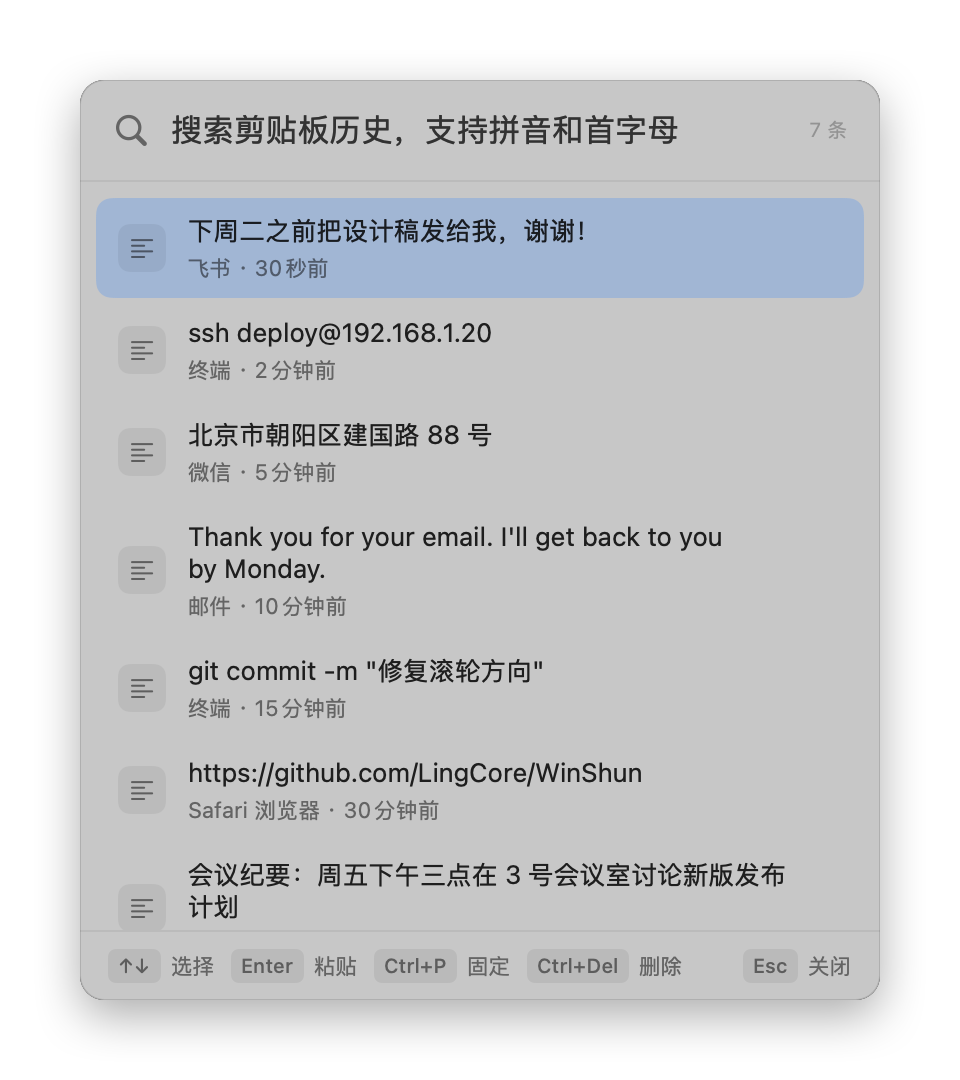
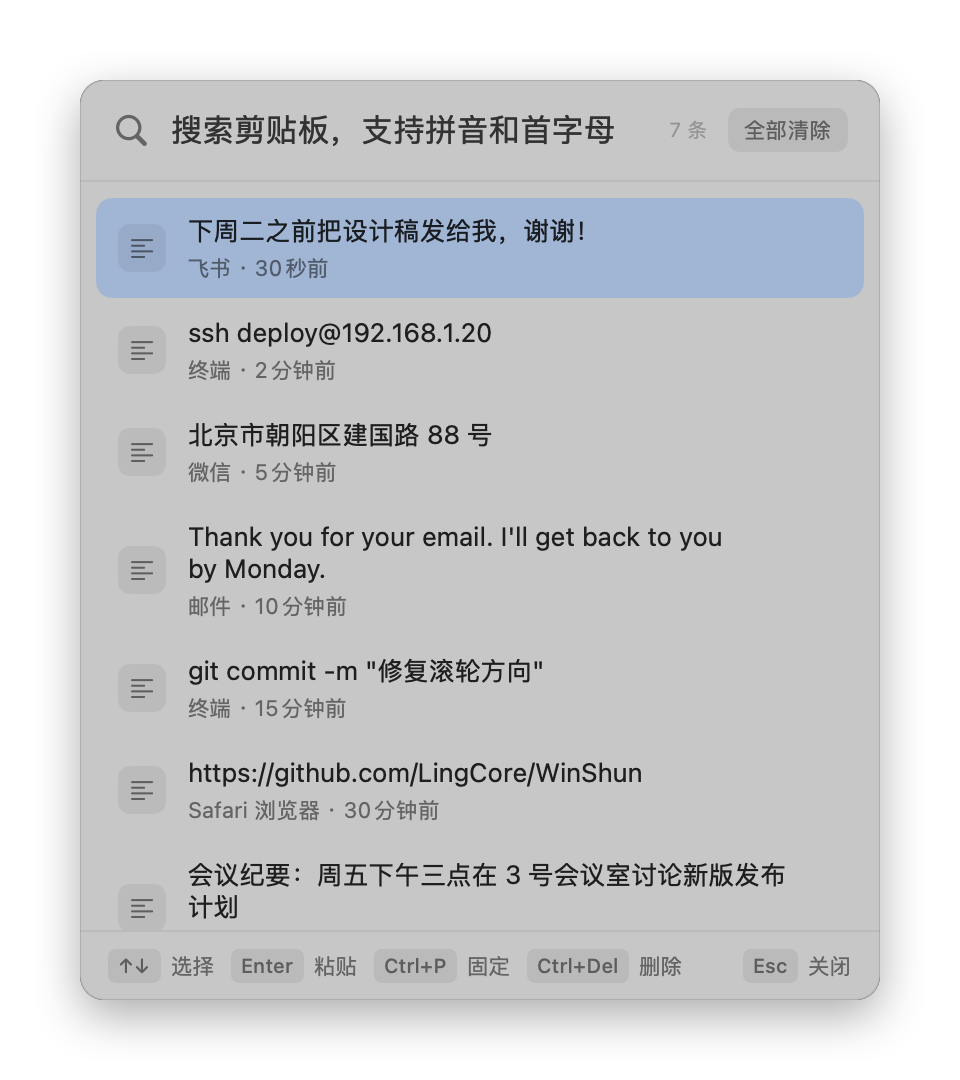
剪贴板面板：右上角加“全部清除”
和 Windows 的 Win+V 一样放在右上角，固定的条目保留。点一下变红（“再点一次清除”），再点一下才清；3 秒内没点、或者中间打了字就取消。面板里弹确认框会让面板失去焦点关掉，所以用点两下防误点。搜索时、没有可清的记录时不显示。

为了放下按钮，搜索框提示缩成“搜索剪贴板，支持拼音和首字母”，按钮变红时先不显示条数。README 加了一句介绍，重新生成了剪贴板面板的截图。

单元测试：点两下才清、固定的保留、打字取消。自测：只点一下（不清掉自己的历史），搜索框照样能打字，Esc 照样关面板。

Changed region(s): [[0.3438, 0.0917, 0.7188, 0.1528], [0.7812, 0.0917, 0.875, 0.1528]]

diff --git a/Sources/WinShun/Clipboard/ClipboardPanel.swift b/Sources/WinShun/Clipboard/ClipboardPanel.swift
@@ -43,9 +43,14 @@ final class ClipboardPanel: NSPanel {
 /// 面板的数据和操作。
 final class ClipboardPanelModel: ObservableObject {
     @Published var query = "" {
-        didSet { refresh() }
+        didSet {
+            cancelClear()
+            refresh()
+        }
     }
     @Published private(set) var results: [ClipboardItem] = []
+    /// 点了一次“全部清除”，等着再点一次确认（过几秒自动取消）
+    @Published private(set) var confirmingClear = false
     @Published var selection = 0
     /// 鼠标停在哪一条上
     @Published var hoveredID: UUID?
@@ -58,6 +63,7 @@ final class ClipboardPanelModel: ObservableObject {
 
     private var thumbnails: [UUID: NSImage] = [:]
     private var subscription: AnyCancellable?
+    private var clearTimeout: DispatchWorkItem?
 
     init(store: ClipboardStore) {
         self.store = store
@@ -69,8 +75,32 @@ final class ClipboardPanelModel: ObservableObject {
     func prepareForShow() {
         query = ""
         selection = 0
+        cancelClear()
         refresh()
         focusToken += 1
+    }
+
+    /// 有没固定的记录可以清。搜索时不显示“全部清除”，免得以为只清搜到的那些
+    var canClear: Bool { query.isEmpty && store.items.contains { !$0.pinned } }
+
+    /// 全部清除：点两下才清，免得误点。固定的条目保留（和 Windows 一样）
+    func clearTapped() {
+        guard confirmingClear else {
+            confirmingClear = true
+            let timeout = DispatchWorkItem { [weak self] in self?.confirmingClear = false }
+            clearTimeout = timeout
+            DispatchQueue.main.asyncAfter(deadline: .now() + 3, execute: timeout)
+            return
+        }
+        cancelClear()
+        store.clearUnpinned()
+        selection = 0
+    }
+
+    private func cancelClear() {
+        clearTimeout?.cancel()
+        clearTimeout = nil
+        if confirmingClear { confirmingClear = false }
     }
 
     func refresh() {
@@ -147,21 +177,46 @@ struct ClipboardPanelView: View {
                 .foregroundStyle(.secondary)
             SearchField(
                 text: $model.query,
-                placeholder: L("搜索剪贴板历史，支持拼音和首字母"),
+                placeholder: L("搜索剪贴板，支持拼音和首字母"),
                 focusToken: model.focusToken,
                 onMove: { model.move($0) },
                 onSubmit: { model.pasteSelected() },
                 onCancel: { model.onClose() }
             )
-            if !model.results.isEmpty {
+            // 等着确认清除时，按钮变宽，条数先不显示
+            if !model.results.isEmpty && !model.confirmingClear {
                 Text(L("%ld 条", model.results.count))
                     .font(.caption)
                     .monospacedDigit()
                     .foregroundStyle(.tertiary)
+                    .fixedSize()
+            }
+            if model.canClear {
+                clearButton
             }
         }
         .padding(.horizontal, 16)
         .frame(height: 50)
+    }
+
+    /// 右上角的“全部清除”，和 Windows 的剪贴板历史一样的位置。点一下变红，再点一下才清
+    private var clearButton: some View {
+        let confirming = model.confirmingClear
+        return Button { model.clearTapped() } label: {
+            Text(confirming ? L("再点一次清除") : L("全部清除"))
+                .font(.system(size: 11, weight: confirming ? .semibold : .regular))
+                .foregroundStyle(confirming ? AnyShapeStyle(Color.white) : AnyShapeStyle(.secondary))
+                .padding(.horizontal, 8)
+                .frame(height: 22)
+                .background(
+                    RoundedRectangle(cornerRadius: 6, style: .continuous)
+                        .fill(confirming ? Color.red.opacity(0.85) : Color.primary.opacity(0.08))
+                )
+                .contentShape(Rectangle())
+                .fixedSize()
+        }
+        .buttonStyle(.plain)
+        .help(L("清除没固定的记录，固定的保留"))
     }
 
     private var list: some View {

diff --git a/Sources/WinShun/App/SelfTest.swift b/Sources/WinShun/App/SelfTest.swift
@@ -209,7 +209,18 @@ final class SelfTest {
         let option: Mod = mapper.altFlag == .maskAlternate ? .alt : .win
         await press(KeyCode.v, [option], settle: 600)
         check("⌥V 也能打开剪贴板历史", clipboard.isVisible)
+
+        // “全部清除”只点一下（不真的清，免得清掉自己的历史）：等着确认；搜索框还在接收按键，一打字就取消
+        let count = store.items.count
+        postClick(at: clipboard.clearButtonPoint)
+        let confirming = await waitUntil(timeout: 1) { self.clipboard.confirmingClear }
+        await press(KeyCode.y, settle: 300)
+        check("点一下“全部清除”等着确认，搜索框照样能打字，一打字就取消", confirming && clipboard.query == "y"
+                && !clipboard.confirmingClear && store.items.count == count && clipboard.isVisible,
+              "等确认：\(confirming)，搜索框里：\(clipboard.query.debugDescription)，还在等确认：\(clipboard.confirmingClear)，"
+                + "条数 \(count) → \(store.items.count)，面板开着：\(clipboard.isVisible)")
         await press(KeyCode.escape, settle: 300)
+        check("然后 Esc 照样关掉面板", !clipboard.isVisible)
         clipboard.hide()
     }
 

diff --git a/Tests/WinShunTests/StorageTests.swift b/Tests/WinShunTests/StorageTests.swift
@@ -113,6 +113,32 @@ extension ClipboardStoreTests {
         let names = try FileManager.default.contentsOfDirectory(atPath: dir.path)
         #expect(names.contains { $0.hasPrefix("history-unreadable-") })
     }
+
+    /// 面板上的“全部清除”：点两下才清，固定的保留；中间打了字就不算
+    @Test func clearAllNeedsTwoClicks() {
+        let dir = tempDirectory()
+        defer { try? FileManager.default.removeItem(at: dir) }
+        let store = ClipboardStore(directory: dir)
+        store.add(text("固定"), maxItems: 10)
+        store.togglePin(store.items[0].id)
+        store.add(text("一"), maxItems: 10)
+        store.add(text("二"), maxItems: 10)
+        let model = ClipboardPanelModel(store: store)
+        #expect(model.canClear)
+
+        model.clearTapped()
+        #expect(model.confirmingClear && store.items.count == 3)
+        model.query = "y"
+        #expect(!model.confirmingClear && !model.canClear)
+        model.query = ""
+        model.clearTapped()
+        #expect(store.items.count == 3)
+
+        model.clearTapped()
+        #expect(!model.confirmingClear)
+        #expect(store.items.map(\.text) == ["固定"])
+        #expect(!model.canClear)
+    }
 }
 
 @Suite("配置")

diff --git a/Sources/WinShun/Clipboard/ClipboardController.swift b/Sources/WinShun/Clipboard/ClipboardController.swift
@@ -37,6 +37,15 @@ final class ClipboardController {
     }
 
     var isVisible: Bool { panel.isVisible }
+    /// 自测用
+    var query: String { model.query }
+    var confirmingClear: Bool { model.confirmingClear }
+    /// 自测用：“全部清除”按钮上的一点，屏幕坐标（左上角为原点）
+    var clearButtonPoint: CGPoint {
+        let frame = panel.frame
+        let primaryHeight = NSScreen.screens.first?.frame.height ?? 0
+        return CGPoint(x: frame.maxX - 16 - 20, y: primaryHeight - (frame.maxY - 25))
+    }
     /// 面板里当前显示的条目（自测用）。
     var visibleResults: [ClipboardItem] { model.results }
 

diff --git a/README.md b/README.md
@@ -65,7 +65,7 @@
 
 - 按 **Win+V** 弹出最近复制过的内容，选中后直接粘贴。在文件搜索框里按 Win+V 也行，选中的内容直接填进搜索框。
 - **支持拼音搜索**：输入全拼或首字母都能找到，比如输入 `jtb` 就能搜到“剪贴板”。
-- 记录文字和图片，常用的内容可以固定在最上面。
+- 记录文字和图片，常用的内容可以固定在最上面。右上角“全部清除”一键清空历史，固定的保留。
 - 自动跳过密码管理器标记为隐藏的内容。内容只存在你自己的电脑上。
 
 <p align="center">
@@ -243,7 +243,7 @@ Every option can be found with the **search box** at the top of the settings win
 
 - Press **Win+V** to see what you copied recently and paste it with one key. It works inside the file search bar too: the item you pick goes straight into the search field.
 - **Pinyin search** for Chinese text (full pinyin or initials, e.g. `jtb` finds 剪贴板).
-- Stores text and images; pin the items you use often.
+- Stores text and images; pin the items you use often. “Clear All” in the top-right corner empties the history and keeps pinned items.
 - Skips content that password managers mark as concealed. Everything stays on your Mac.
 
 <p align="center">
